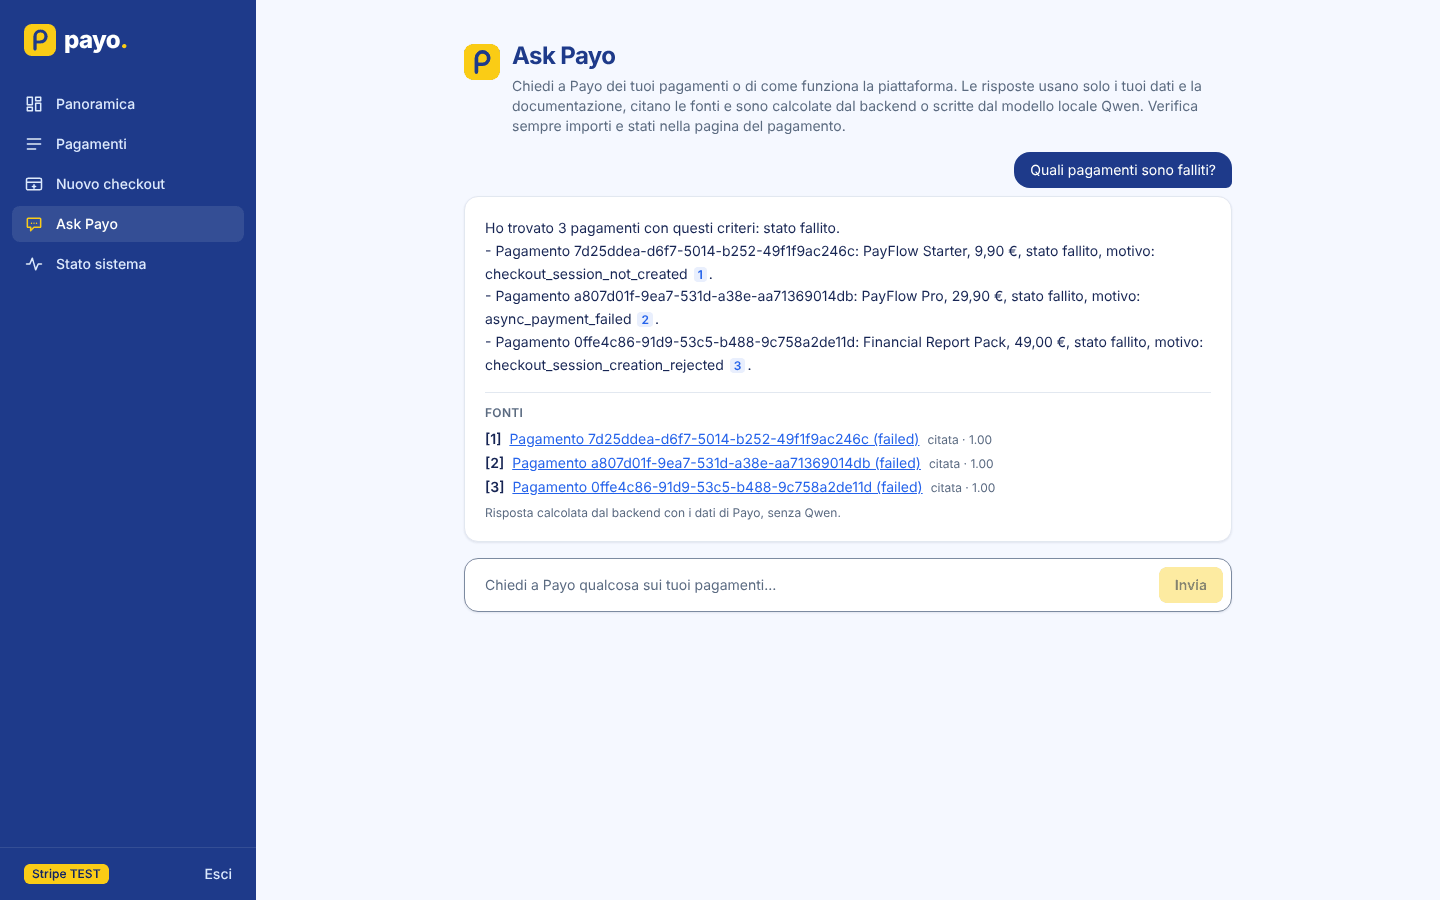
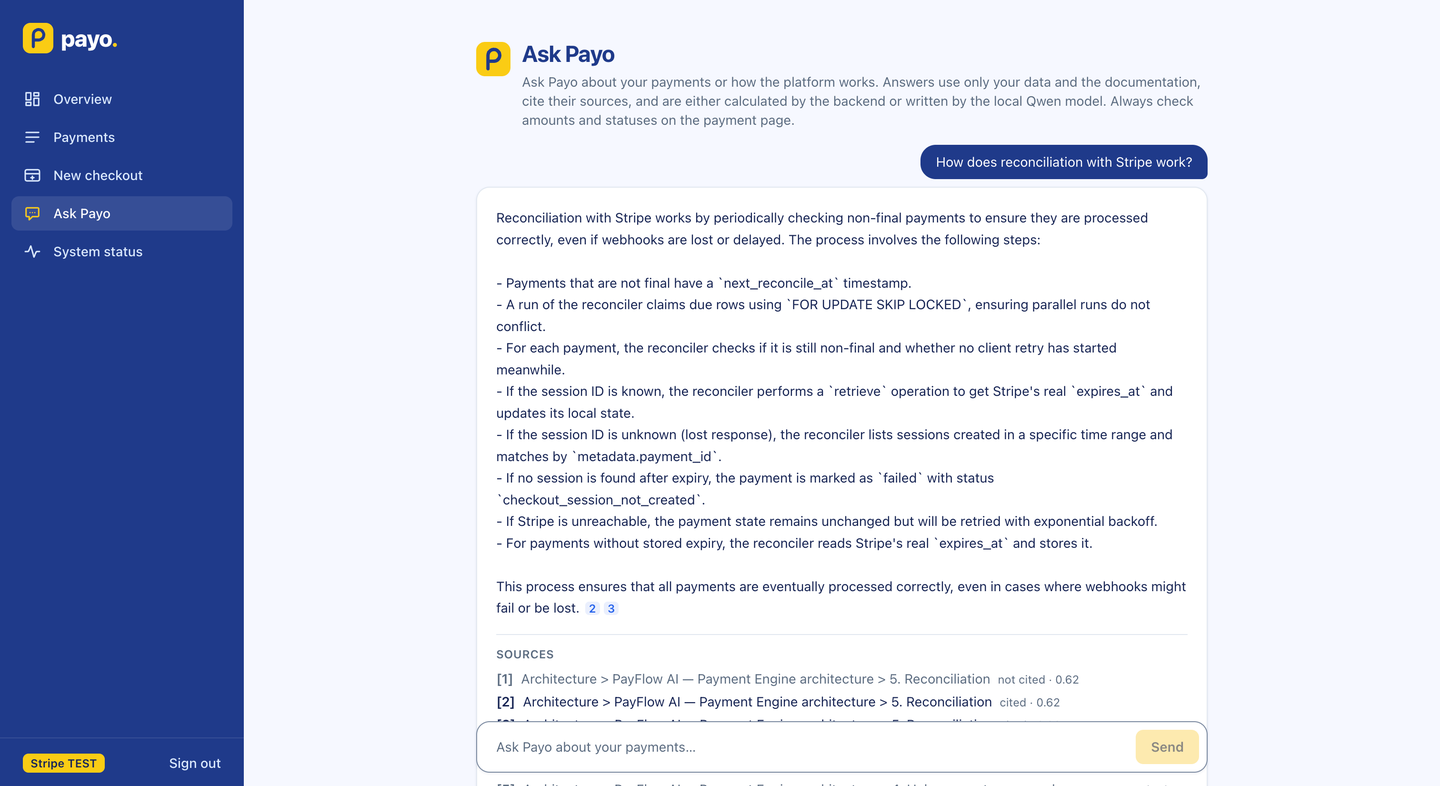
docs: replace README screenshots with captures of the full local stack
Both screenshots were taken on the Mac with the full stack running
(PostgreSQL, Qdrant, FastAPI, dashboard, Ollama with qwen2.5:7b-instruct
and bge-m3), synthetic data only, English interface.

- payo-dashboard.png: overview with system status "API: ok" and
  "Ask Payo: ok".
- payo-ai-assistant.png: "How does reconciliation with Stripe work?",
  answered by Qwen on the semantic route (api log: route=semantic
  relevant=5 cited=2 llm=true), with sources from docs/architecture.md
  section 5. The answer was checked against that section.

Browser toolbar cropped, scaled to 1440 px wide, converted to sRGB,
no metadata.

diff --git a/docs/engineering/technical-overview.md b/docs/engineering/technical-overview.md
@@ -18,7 +18,7 @@
 
 | Dashboard | Ask Payo |
 |---|---|
-| ![Payo dashboard with payment KPIs and recent transactions](../../docs/screenshots/payo-dashboard.png) | ![Ask Payo answering with cited payment sources](../../docs/screenshots/payo-ai-assistant.png) |
+| ![Payo dashboard with payment KPIs and recent transactions](../../docs/screenshots/payo-dashboard.png) | ![Ask Payo answering with cited documentation sources](../../docs/screenshots/payo-ai-assistant.png) |
 
 Screenshots taken on the synthetic evaluation merchant (`python -m app.rag.evaluation seed`); every payment shown is fake.
 

diff --git a/README.md b/README.md
@@ -31,7 +31,7 @@ This project is intended for educational and demonstration purposes only. It use
 
 **Ask Payo**
 
-![Ask Payo answering a question about failed payments, with cited sources](docs/screenshots/payo-ai-assistant.png)
+![Ask Payo answering a question about Stripe reconciliation with the local Qwen model, with cited sources](docs/screenshots/payo-ai-assistant.png)
 
 ## Documentation
 
